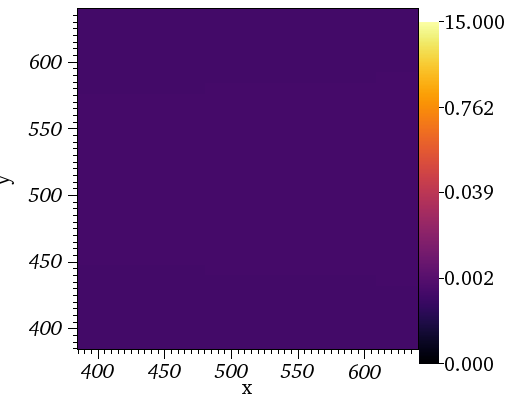
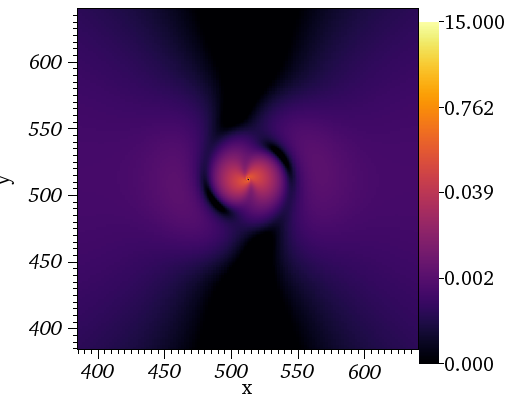
new plots

Changed region(s): [[0.1562, 0.0, 0.8125, 0.8447]]

diff --git a/Analysis/visit/visitlog.py b/Analysis/visit/visitlog.py
@@ -3,7 +3,7 @@ ScriptVersion = "2.13.0"
 if ScriptVersion != Version():
     print "This script is for VisIt %s. It may not work with version %s" % (ScriptVersion, Version())
 ShowAllWindows()
-OpenDatabase("/rds/user/dc-bamb1/rds-dirac-dp131/dc-bamb1/GRChombo_data/KerrSF/run0018_l1_m1_a0.99_Al0.25_mu0.4_M1_IsoKerr/KerrSFp_001600.3d.hdf5", 0)
+OpenDatabase("/rds/user/dc-bamb1/rds-dirac-dp131/dc-bamb1/GRChombo_data/KerrSF/run0017_l1_m1_a0.99_Al0.5_mu0.4_M1_IsoKerr/KerrSFp_001600.3d.hdf5", 0)
 # The UpdateDBPluginInfo RPC is not supported in the VisIt module so it will not be logged.
 AddPlot("Pseudocolor", "rho", 1, 1)
 PseudocolorAtts = PseudocolorAttributes()
@@ -323,7 +323,7 @@ SetView2D(View2DAtts)
 SaveWindowAtts = SaveWindowAttributes()
 SaveWindowAtts.outputToCurrentDirectory = 1
 SaveWindowAtts.outputDirectory = "."
-SaveWindowAtts.fileName = "/home/dc-bamb1/GRChombo/Analysis/plots/BBH_SF_rho_run0018_l1_m1_a0.99_Al0.25_mu0.4_M1_IsoKerr_n001600"
+SaveWindowAtts.fileName = "/home/dc-bamb1/GRChombo/Analysis/plots/BBH_SF_rho_run0017_l1_m1_a0.99_Al0.5_mu0.4_M1_IsoKerr_n001600"
 SaveWindowAtts.family = 0
 SaveWindowAtts.format = SaveWindowAtts.PNG  # BMP, CURVE, JPEG, OBJ, PNG, POSTSCRIPT, POVRAY, PPM, RGB, STL, TIFF, ULTRA, VTK, PLY
 SaveWindowAtts.width = 512

diff --git a/Analysis/visit/rho_plot_script.py b/Analysis/visit/rho_plot_script.py
@@ -15,8 +15,8 @@ data_root_dir = "/rds/user/dc-bamb1/rds-dirac-dp131/dc-bamb1/GRChombo_data/KerrS
 #subdir = "run0005_l1_m1_a0.7_Al0_mu0.4_M1_IsoKerr"
 #subdir = "run0006_l1_m1_a0.99_Al0_mu0.4_M1_IsoKerr"
 #subdir = "run0016_l1_m-1_a0.99_Al0_mu0.4_M1_IsoKerr"
-#subdir = "run0017_l1_m1_a0.99_Al0.5_mu0.4_M1_IsoKerr"
-subdir = "run0018_l1_m1_a0.99_Al0.25_mu0.4_M1_IsoKerr"
+subdir = "run0017_l1_m1_a0.99_Al0.5_mu0.4_M1_IsoKerr"
+#subdir = "run0018_l1_m1_a0.99_Al0.25_mu0.4_M1_IsoKerr"
 number = 1600
 data_file_name = "KerrSFp_%06d.3d.hdf5" % number
 width = 256
@@ -54,8 +54,8 @@ SetPlotOptions(PseudocolorAtts)
 AddOperator("Slice", 1)
 SliceAtts = SliceAttributes()
 SliceAtts.originType = SliceAtts.Intercept  # Point, Intercept, Percent, Zone, Node
-SliceAtts.originPoint = (0, 0, 512)
-SliceAtts.originIntercept = 0.001
+SliceAtts.originPoint = (0, 0, 0)
+SliceAtts.originIntercept = 512.0
 SliceAtts.originPercent = 0
 SliceAtts.originZone = 0
 SliceAtts.originNode = 0
